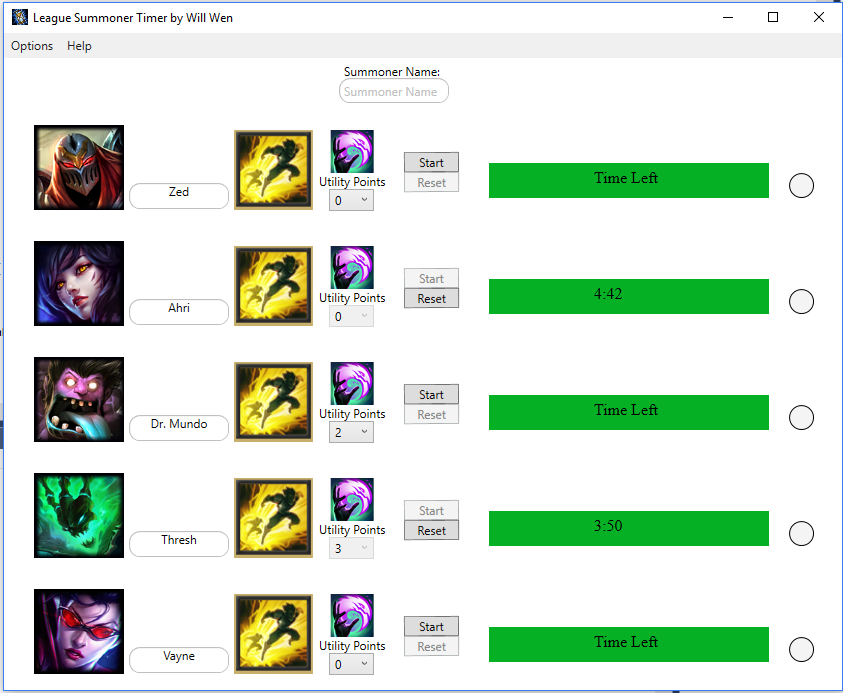
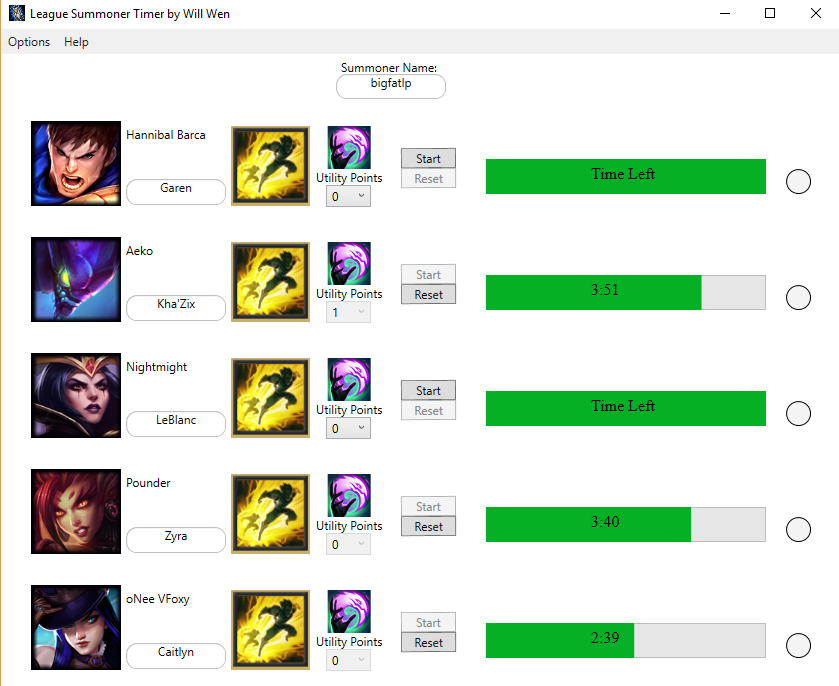
load champions from riot api, progress bar shows correct incrementing

diff --git a/loltimer/ChampionTimer/ChampionTimerView.xaml b/loltimer/ChampionTimer/ChampionTimerView.xaml
@@ -45,14 +45,12 @@
         <Image HorizontalAlignment="Left" VerticalAlignment="Top" Source="../Icons/Flash.png" RenderTransformOrigin="5.182,2.273" Margin="200,22,0,0" Height="80" Width="80"/>
         <StackPanel VerticalAlignment="Top" Margin="285,22,0,0" HorizontalAlignment="Left" Height="94">
 
-            <Image x:Name="SummonersInsightImahe" RenderTransformOrigin="0.515,0.407" Height="43" Source="/loltimer;component/Icons/Summoner's_Insight_mastery_s4.png"/>
+            <Image x:Name="SummonersInsightImage" RenderTransformOrigin="0.515,0.407" Height="43" Source="/loltimer;component/Icons/Summoner's_Insight_mastery_s4.png"/>
 
             <TextBlock TextWrapping="Wrap" Text="Utility Points" HorizontalAlignment="Left" RenderTransformOrigin="0.687,0.6" VerticalAlignment="Top"/>
             <ComboBox x:Name="UtilComboBox" Margin="10,0" VerticalAlignment="Top" HorizontalAlignment="Left" Width="45">
                 <System:Int32>0</System:Int32>
                 <System:Int32>1</System:Int32>
-                <System:Int32>2</System:Int32>
-                <System:Int32>3</System:Int32>
             </ComboBox>
         </StackPanel>
         <StackPanel RenderTransformOrigin="0.5,0.5" Margin="370,44,0,0" VerticalAlignment="Top" HorizontalAlignment="Left" Width="65" Height="46">
@@ -70,6 +68,7 @@
         <local:ProgressBarWithTextControl x:Name="ProgBarWithText" HorizontalAlignment="Left" Margin="455,55,0,0" VerticalAlignment="Top" Height="Auto" Width="Auto"/>
 
         <Ellipse x:Name="Ellipse" Fill="#FFF4F4F5" HorizontalAlignment="Left" Height="25" Margin="755,65,0,0" Stroke="Black" VerticalAlignment="Top" Width="25" RenderTransformOrigin="0.6,1" AllowDrop="True"/>
+        <TextBlock x:Name="SummonerNameTextBox" HorizontalAlignment="Left" Margin="95,22,0,0" TextWrapping="Wrap" Text="Summoner Name" VerticalAlignment="Top" Width="99" Height="49"/>
 
     </Grid>
 </UserControl>

diff --git a/loltimer/EntryPoint.xaml.cs b/loltimer/EntryPoint.xaml.cs
@@ -178,10 +178,11 @@ namespace Loltimer
                 else
                     enemyTeam = team1;
 
+                int i = 0;
                 foreach (var p in enemyTeam)
                 {
-                    Console.WriteLine("Player " + p.SummonerName + " is playing " + staticApi.GetChampion(Region.na, (int)p.ChampionId).Name);
-
+                    string championName = staticApi.GetChampion(Region.na, (int)p.ChampionId).Name;
+                    Console.WriteLine("Player " + p.SummonerName + " is playing " + championName);
 
                     if (staticApi.GetSummonerSpell(Region.na,
                         (RiotSharp.StaticDataEndpoint.SummonerSpell)p.SummonuerSpell1).Name.Equals("Flash") ||
@@ -196,6 +197,7 @@ namespace Loltimer
                      * rank	        int	    The number of points put into this mastery by the user
                      */
                     var m = p.Masteries;
+                    bool hasInsight = false;
                     foreach (var mastery in m)
                     {
                         var masteryDetail = staticApi.GetMastery(Region.na, (int) mastery.MasteryId);
@@ -204,10 +206,14 @@ namespace Loltimer
 
                             int id = masteryDetail.Id;
                             Console.WriteLine("And they have the insight mastery.");
+                            hasInsight = true;
+
                         }
 
                         
                     }
+                    championPanelPresenters[i].LoadFromRiotAPI(p.SummonerName, championName, hasInsight);
+                    i++;
 
                 }
 

diff --git a/loltimer/ChampionTimer/ChampionTimerPresenter.cs b/loltimer/ChampionTimer/ChampionTimerPresenter.cs
@@ -115,8 +115,28 @@ namespace Loltimer.ChampionTimer
         public void SetDefaultChampionTextBoxField()
         {
             this.champTimerModel.ChampionName = "Champion" + this.champTimerModel.Id.ToString();
-            this.champTimerView.ChampionTextBox.Text = "Champion" + this.champTimerModel.Id.ToString();
-            
+            this.champTimerView.SetChampionTextBoxName("Champion" + this.champTimerModel.Id.ToString());
+
+        }
+
+        public void LoadFromRiotAPI(string summonerName, string championName, bool hasInsight)
+        {
+            this.champTimerModel.ChampionName = championName;
+            this.champTimerView.SetChampionImage(championName);
+            this.champTimerView.SetSummonerName(summonerName);
+            this.champTimerView.SetChampionTextBoxName(championName);
+            SetUtilInViewAndModel(hasInsight);
+
+
+        }
+
+        public void SetUtilInViewAndModel(bool hasInsight)
+        {
+            this.champTimerModel.SetUtilPoints(hasInsight);
+            if (hasInsight)
+                this.champTimerView.UtilComboBox.SelectedIndex = 1;
+            else
+                this.champTimerView.UtilComboBox.SelectedIndex = 0;
         }
 
 

diff --git a/loltimer/Components/TimerWithSynthesizer.cs b/loltimer/Components/TimerWithSynthesizer.cs
@@ -8,8 +8,8 @@ namespace Loltimer
     public partial class TimerWithSynthesizer : Component
     {
         private readonly int flashTime = 300;
-        private int goalTime;
-        private int utilityPoints;
+        private int goalTime = 300;
+        private int utilityPoints = 0;
         private int time;
         private SpeechSynthesizer synth;
         private DispatcherTimer stopwatch;
@@ -96,13 +96,12 @@ namespace Loltimer
         public void EvauluateTimeFromUtility()
         {
             double percentageReduced = 0;
+            //as of season 2016, only one point in utility will reduce the summoner spell cooldown by 15 %
+            //http://leagueoflegends.wikia.com/wiki/Insight
             switch (utilityPoints)
             {
                 case 0: percentageReduced = 0; break;
-                case 1: percentageReduced = .08; break;
-                case 2: percentageReduced = .14; break;
-                case 3: percentageReduced = .20; break;
-                   
+                case 1: percentageReduced = .15; break;   
 
             }
             goalTime = (int) (flashTime - (flashTime * percentageReduced));

diff --git a/loltimer/HotKeyManager/HotKeyManagerPresenter.cs b/loltimer/HotKeyManager/HotKeyManagerPresenter.cs
@@ -58,7 +58,10 @@ namespace Loltimer.HotKeyManager
         public void RegisterDefaultHotKeys()
         {
             for (int i = 1; i <= GlobalVars.numOfPanels; i++)
+            {
                 NativeMethods.RegisterHotKey(ptr, i, 0, (int)GlobalVars.defaultKeys[i - 1]);
+                Console.WriteLine("registered hotkey " + (int)GlobalVars.defaultKeys[i - 1]);
+            }
 
         }
         /// <summary>

diff --git a/loltimer/ChampionTimer/ChampionTimerView.xaml.cs b/loltimer/ChampionTimer/ChampionTimerView.xaml.cs
@@ -63,6 +63,15 @@ namespace Loltimer
             }
         }
 
+        public void SetSummonerName(string summonerName)
+        {
+            this.SummonerNameTextBox.Text = summonerName;
+            
+        }
+        public void SetChampionTextBoxName(string championName)
+        {
+            this.ChampionTextBox.Text = championName;
+        }
 
         public ChampionTimerView()
         {

diff --git a/loltimer/UserControls/ProgressBarWithTextControl.xaml.cs b/loltimer/UserControls/ProgressBarWithTextControl.xaml.cs
@@ -14,6 +14,7 @@ namespace Loltimer
         {
             InitializeComponent();
             //if you dont say what textBlock1 is , then changing the value will call progressBar_valuechagned
+            ProgBar.Maximum = 60 * 5;
             ProgBar.Value = ProgBar.Maximum;
             ProgBar.ValueChanged += ProgressBar_ValueChanged;
 

diff --git a/loltimer/ChampionTimer/ChampionTimerModel.cs b/loltimer/ChampionTimer/ChampionTimerModel.cs
@@ -33,5 +33,13 @@ namespace Loltimer.ChampionTimer
         {
             return this.timer;
         }
+        public void SetUtilPoints(bool hasInsight)
+        {
+            if (hasInsight)
+                this.timer.UtilityPoints = 1;
+            else
+                this.timer.UtilityPoints = 0;
+
+        }
     }
 }
